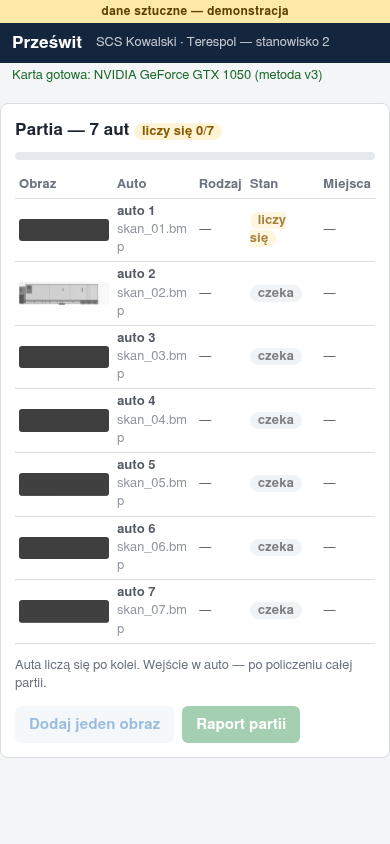
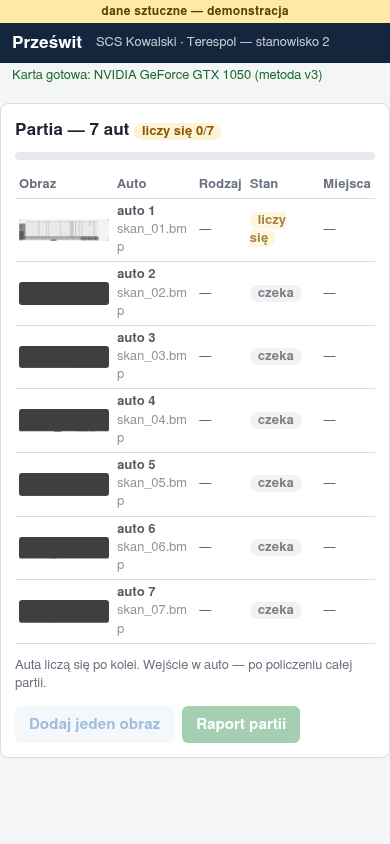
Programista: oddaję zadanie 27 — zmiana rodzaju z przeliczeniem (&typ=) i raportem, odbiór kliknięciami na linku, zrzuty

Changed region(s): [[0.0308, 0.2464, 0.2769, 0.3697]]

diff --git a/docs/decyzje.md b/docs/decyzje.md
@@ -649,3 +649,4 @@ UPROSZCZENIE: samodzielne budzenie usługi przez budzik (token orkiestratora na 
 20:03 Szef: recenzja 09 R1 (przed wysyłką) — 4 braki → Projektant poprawia 1/3/4 teraz, I4 po odbiorze 27; wysyłka do Artura po odbiorze 27
 20:04 Projektant: docs/pm/09-uproszczenia.md R5 — wg recenzji 20:03: I1 to informacja z P86 (bez pytania i wariantu B); I4→I3 „będzie” (wersja po odbiorze 27 dopisana na końcu pliku); „działa”→„sprawdzamy” (ramki, Dodaj jeden obraz); bez słów .json/.csv/komunikat/program w tekście do Artura. Wiadomość do Artura NIEWYSŁANA.
 20:04 Szef: 09 po R1 poprawione (edecc40, 21c8a97: braki 1/3/4); I3 „Zmień rodzaj” do „ustalone” po odbiorze 27, potem wysyłka
+20:05 Programista: oddaję zadanie 27 — gotowe. Dowód z linku https://hacknation.ksefbot.pl/ (v=30, wdrożone) kliknięciami: `sh strona/testy/odbior-27-klik.sh` → „WYNIK: odbiór 27 … wszystko ok” (auto 7: program firanka → operator kontener jednym kliknięciem; podgląd 2 wzorców kontenera; „Zastosuj” liczy na karcie `partia-pokazowa?nr=6&typ=kontener`: 11 → 10 miejsc; decyzje skasowane; auto 1 → cysterna → E5 bez liczenia; pobrany raport .json/.csv: rodzaj_programu=firanka, rodzaj_operatora=kontener). Odmiana „i jeszcze 2 miejsca / 1 miejsce” na linku. Zrzuty: docs/zrzuty/mvp/link-27-{zmiana,po-zmianie,cysterna,raport}.png, pobrany raport link-27-raport-pobrany.{json,csv}. Testy: strona 17/17, Python 38 OK (skipped=1), odbiór 28 kliknięciami powtórzony — ok.
